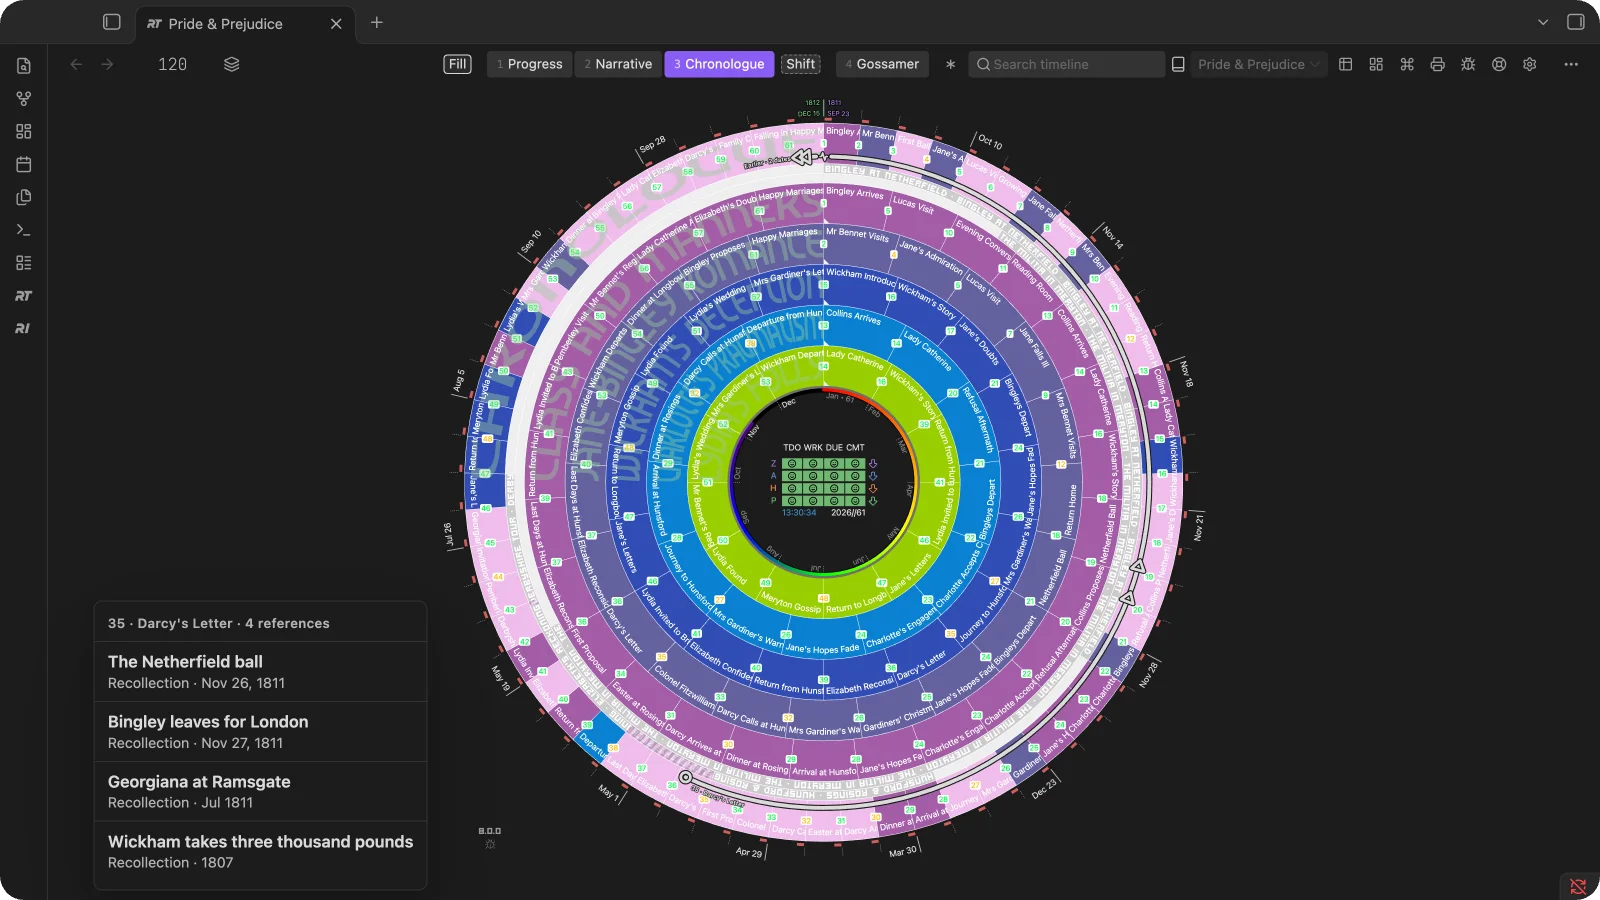
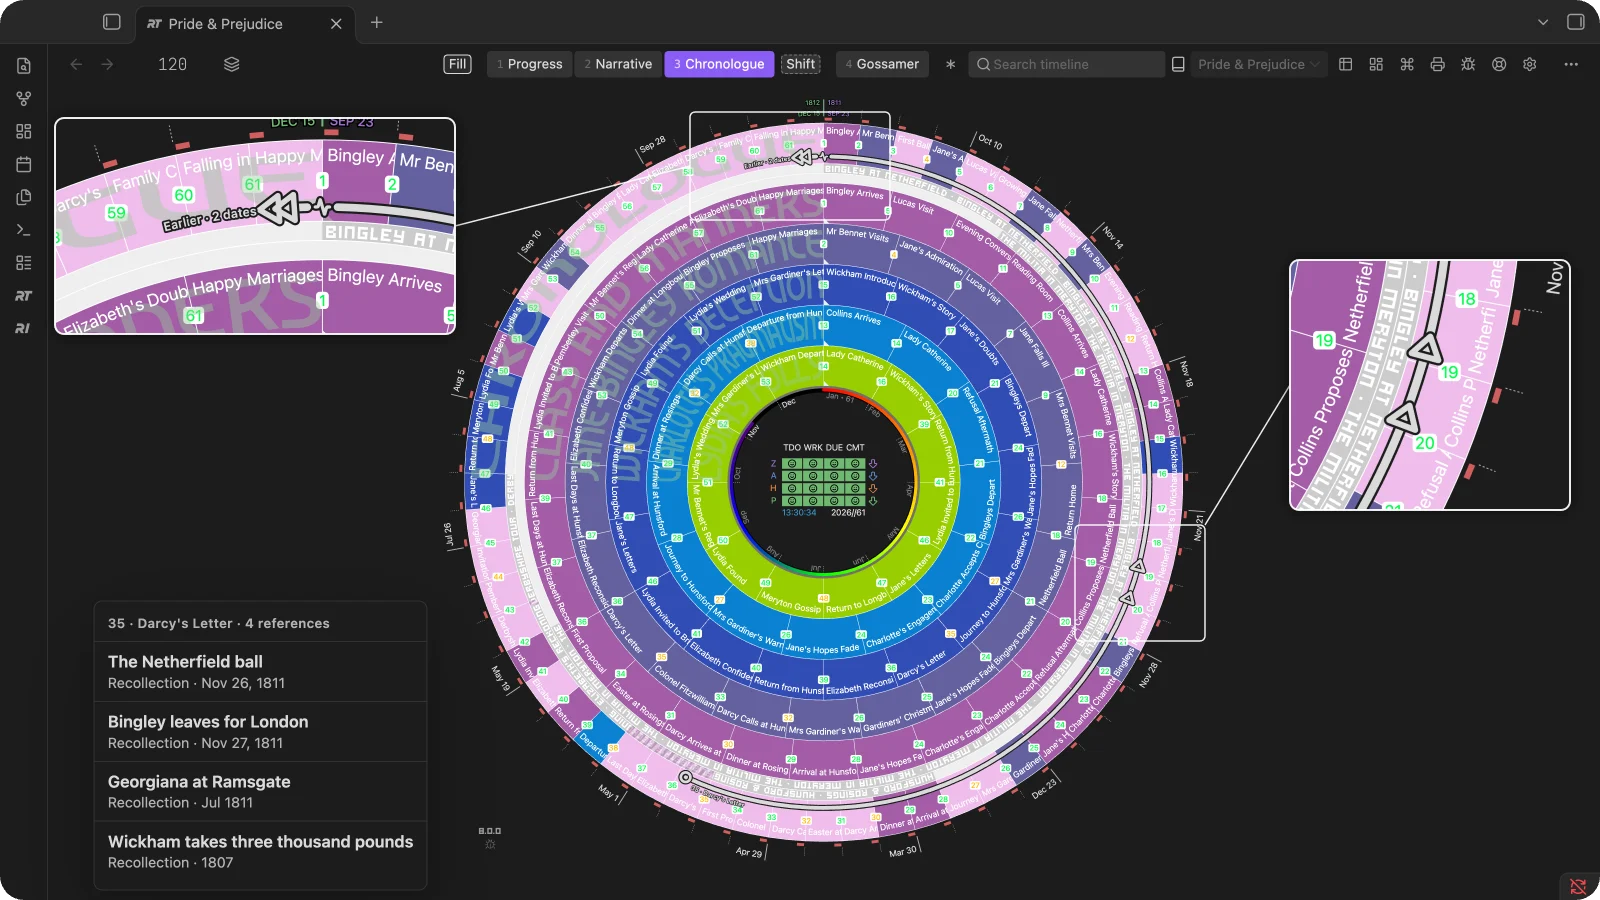
Add close-ups to the time references screenshot
The marks are small at full size, so the screenshot now enlarges two of them in framed insets tied to their place on the timeline: the double arrowhead with Earlier · 2 dates at the seam, and the two arrowheads pointing back to the November dates. The close-ups are captured at four times the scale, so they stay sharp.

Changed region(s): [[0.0312, 0.1244, 0.3125, 0.3733], [0.7812, 0.28, 1.0, 0.5911]]

diff --git a/wiki/Time-References.md b/wiki/Time-References.md
@@ -40,7 +40,7 @@ References describe passages within their source scene. They do not create new s
 
 Time-reference marks appear **only in normal Chronologue**, on the outer **All Scenes** ring. They disappear in the Shift and Alt (planet calendar) sub-modes, and in other timeline modes. Question icons also hide in these Chronologue sub-modes. A source that belongs to several subplots still has only one set of reference marks.
 
-<p align="center"><img src="images/time-references-timeline.webp" alt="Pride and Prejudice in Chronologue: the source circle on Darcy's Letter, its lines to two November dates and to Earlier · 2 dates at the seam, and a list of the scene's four references beside the timeline" width="800"></p>
+<p align="center"><img src="images/time-references-timeline.webp" alt="Pride and Prejudice in Chronologue: the source circle on Darcy's Letter, its lines to two November dates and to Earlier · 2 dates at the seam, and a list of the scene's four references beside the timeline. Close-ups enlarge the double arrowhead for the earlier dates and the two arrowheads pointing back to November" width="800"></p>
 
 - **Source circle:** the scene that holds the references. Hover or focus it to see them all at once: every line from the scene draws, its date marks grow, other marks and source circles dim, its rows light in the Timetable, and a list beside the timeline names each reference in the order you wrote them. Click it to choose one from the same list.
 - **Date mark:** a hollow arrowhead on the referenced date, pointing along the ring the way the date lies from its scene: counter-clockwise for an earlier date, clockwise for a later one. A diamond marks references that point both ways, or a span around the scene’s own time. Hover or focus a mark to read its references beside the timeline: the label, kind and date, the source scene and the passage. Click it to open the passage; Radial Timeline scrolls the note to it and highlights it. Where several references share a mark, clicking it lists them to choose from.
